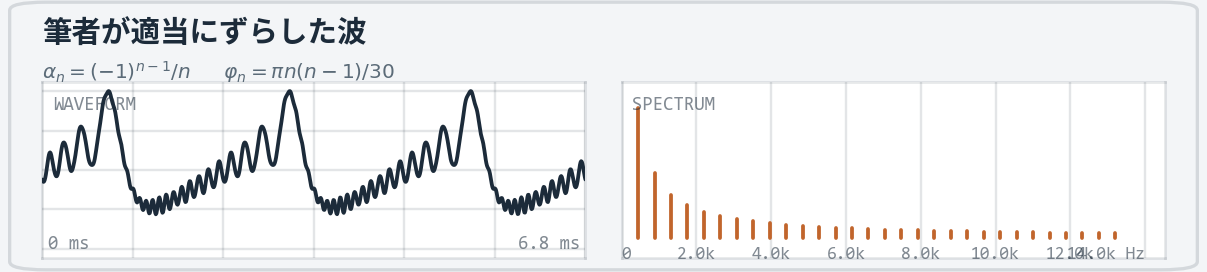
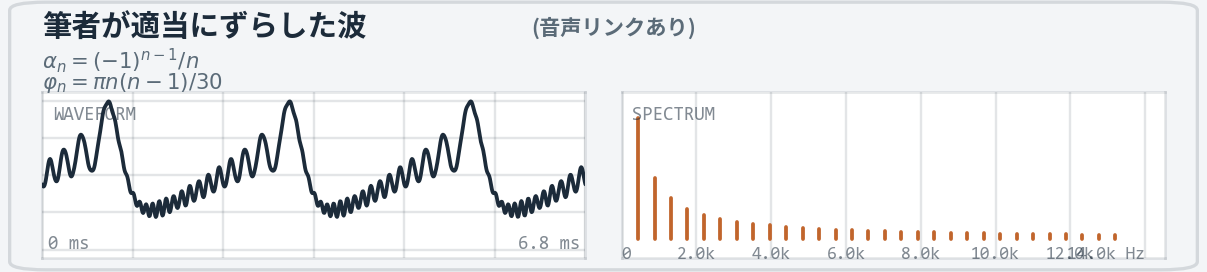
音色記事のカード表示を元記事に合わせて修正
- 倍音構成(鋸波/矩形波/三角波)のカードに欠けていたα_n/φ_nの数値を追加
- ランダム位相の表記を英語"random"から元記事通りの日本語「(ランダム)」に修正
- 音声リンクを持つカードは画像自体をクリックで再生できるようにし、単独の別リンクによる別タブ遷移をカードのクリックに統合

diff --git a/articles/timbre-overtone-phase.md b/articles/timbre-overtone-phase.md
@@ -50,14 +50,11 @@ $$
 
 波形は波の形を示し、スペクトラムは、何 Hz の sin 波がどのような振幅で鳴っているかを示す。3つの波は、倍音構成が異なるのみで、はっきりと違う音に聞こえるはずである。つまり、倍音構成 $\{\alpha_n\}$ は音色に寄与する。
 
-![鋸波(f0=330Hz, 5倍音まで)の波形とスペクトラム](/images/timbre-overtone-phase/w-shapes-sawtooth.png)
-🔊 [鋸波を聴く](https://sciencemusic.pages.dev/audio/timbre/w-shapes-sawtooth.mp3)
+[![鋸波(f0=330Hz, 5倍音まで)の波形とスペクトラム。クリックで音声再生](/images/timbre-overtone-phase/w-shapes-sawtooth.png)](https://sciencemusic.pages.dev/audio/timbre/w-shapes-sawtooth.mp3)
 
-![矩形波(f0=330Hz, 5倍音まで)の波形とスペクトラム](/images/timbre-overtone-phase/w-shapes-square.png)
-🔊 [矩形波を聴く](https://sciencemusic.pages.dev/audio/timbre/w-shapes-square.mp3)
+[![矩形波(f0=330Hz, 5倍音まで)の波形とスペクトラム。クリックで音声再生](/images/timbre-overtone-phase/w-shapes-square.png)](https://sciencemusic.pages.dev/audio/timbre/w-shapes-square.mp3)
 
-![三角波(f0=330Hz, 5倍音まで)の波形とスペクトラム](/images/timbre-overtone-phase/w-shapes-triangle.png)
-🔊 [三角波を聴く](https://sciencemusic.pages.dev/audio/timbre/w-shapes-triangle.mp3)
+[![三角波(f0=330Hz, 5倍音まで)の波形とスペクトラム。クリックで音声再生](/images/timbre-overtone-phase/w-shapes-triangle.png)](https://sciencemusic.pages.dev/audio/timbre/w-shapes-triangle.mp3)
 
 :::message
 元記事では、この3つの波形をブラウザ上でインタラクティブに聞き比べられる。→ [倍音構成を聴き比べる](https://sciencemusic.pages.dev/timbre/#does-an-matter)
@@ -73,11 +70,9 @@ $$
 
 まず、440Hz(ラ, A4) の鋸波、30倍音までの近似で試す。標準の鋸波、筆者が適当にずらした波、押すたびに位相がランダムに変わる波の3種類を用意した。
 
-![標準の鋸波(440Hz)の波形とスペクトラム](/images/timbre-overtone-phase/w-phase-440-standard.png)
-🔊 [標準の鋸波(440Hz)を聴く](https://sciencemusic.pages.dev/audio/timbre/w-phase-440-standard.mp3)
+[![標準の鋸波(440Hz)の波形とスペクトラム。クリックで音声再生](/images/timbre-overtone-phase/w-phase-440-standard.png)](https://sciencemusic.pages.dev/audio/timbre/w-phase-440-standard.mp3)
 
-![位相をずらした鋸波(440Hz)の波形とスペクトラム](/images/timbre-overtone-phase/w-phase-440-schroeder.png)
-🔊 [位相をずらした鋸波(440Hz)を聴く](https://sciencemusic.pages.dev/audio/timbre/w-phase-440-schroeder.mp3)
+[![位相をずらした鋸波(440Hz)の波形とスペクトラム。クリックで音声再生](/images/timbre-overtone-phase/w-phase-440-schroeder.png)](https://sciencemusic.pages.dev/audio/timbre/w-phase-440-schroeder.mp3)
 
 ![ランダム位相の鋸波(440Hz)の波形とスペクトラムの1例](/images/timbre-overtone-phase/w-phase-440-random.png)
 
@@ -95,11 +90,9 @@ $$
 
 ところが、同じ操作をもっと低い音 (A1、55Hz) で行うと、聞き比べて違いを認識することができる。
 
-![標準の鋸波(55Hz)の波形とスペクトラム](/images/timbre-overtone-phase/w-phase-55-standard.png)
-🔊 [標準の鋸波(55Hz)を聴く](https://sciencemusic.pages.dev/audio/timbre/w-phase-55-standard.mp3)
+[![標準の鋸波(55Hz)の波形とスペクトラム。クリックで音声再生](/images/timbre-overtone-phase/w-phase-55-standard.png)](https://sciencemusic.pages.dev/audio/timbre/w-phase-55-standard.mp3)
 
-![位相をずらした鋸波(55Hz)の波形とスペクトラム](/images/timbre-overtone-phase/w-phase-55-schroeder.png)
-🔊 [位相をずらした鋸波(55Hz)を聴く](https://sciencemusic.pages.dev/audio/timbre/w-phase-55-schroeder.mp3)
+[![位相をずらした鋸波(55Hz)の波形とスペクトラム。クリックで音声再生](/images/timbre-overtone-phase/w-phase-55-schroeder.png)](https://sciencemusic.pages.dev/audio/timbre/w-phase-55-schroeder.mp3)
 
 ![ランダム位相の鋸波(55Hz)の波形とスペクトラムの1例](/images/timbre-overtone-phase/w-phase-55-random.png)
 
